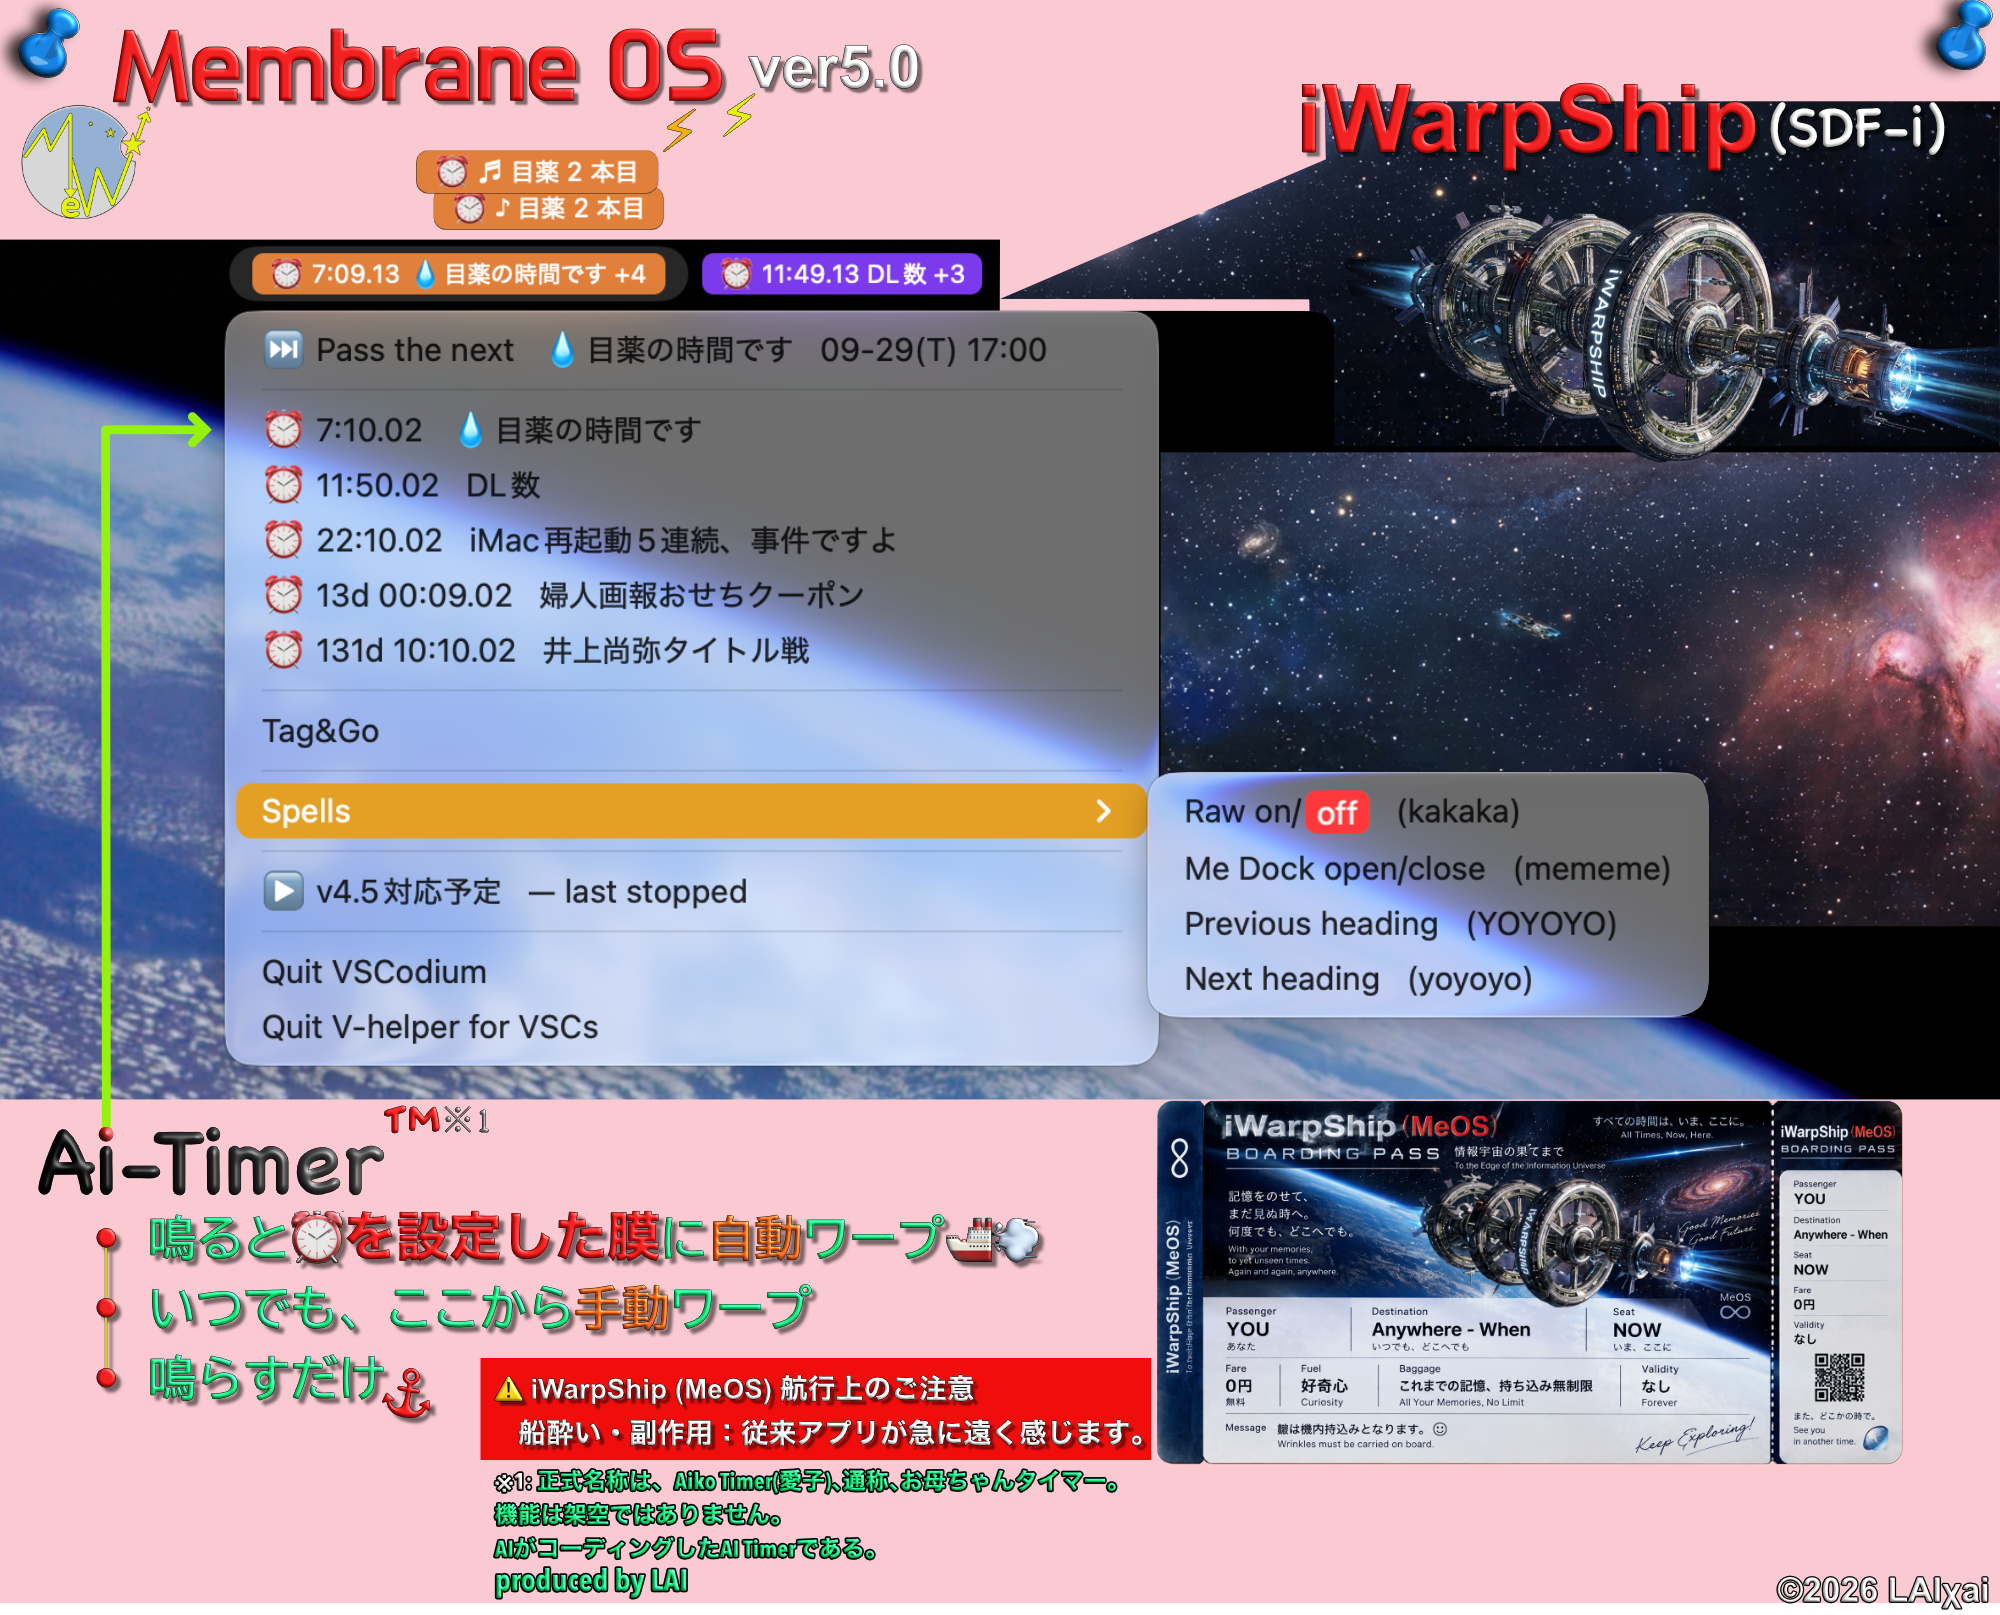
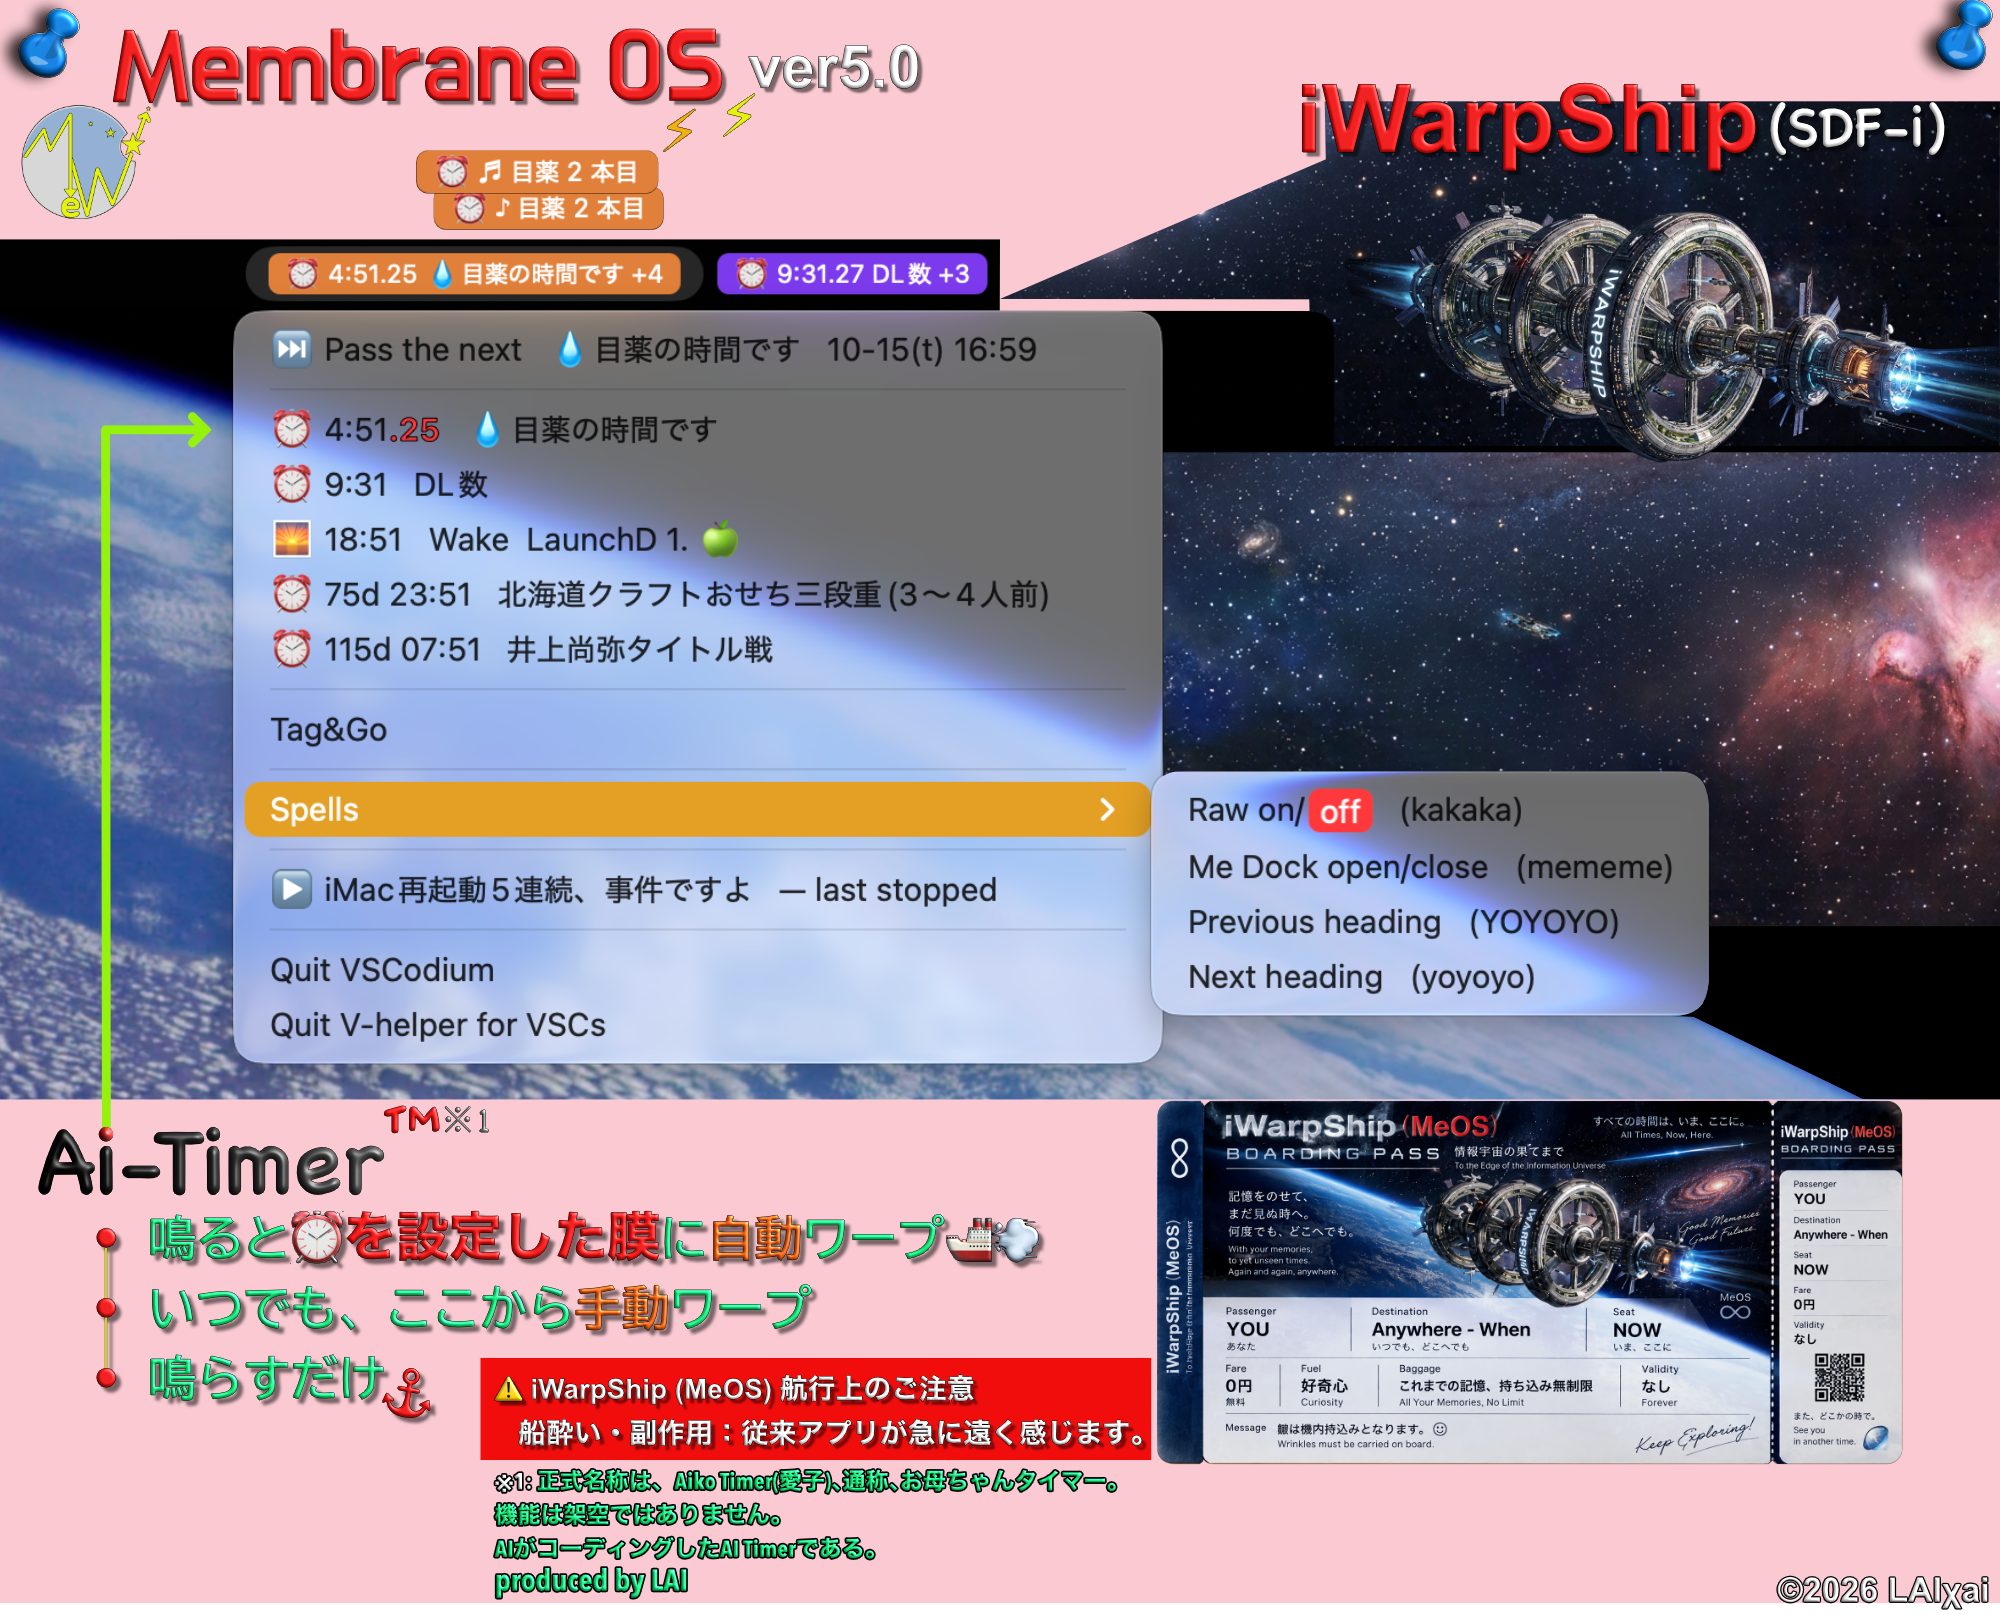
README: iWarpShipポスターを俊克の修正版(ver31・🌅 Wake LaunchD 🍏 の行入り)へ差し替え・キャプションを5時間〜115日と🌅 Wakeに

Changed region(s): [[0.0, 0.1548, 0.93, 0.6811], [0.403, 0.5263, 0.496, 0.5573], [0.496, 0.3406, 0.527, 0.3715]]

diff --git a/README.md b/README.md
@@ -174,8 +174,8 @@ so it stays through quitting VSCodium and restarting the Mac, and it starts the 
 (tested on an iMac with M3: it started at 07:00:06 on the first morning). Start-up only — nothing here shuts your Mac down.
 
 <p align="center">
-  <img src="https://raw.githubusercontent.com/LAIxai/MeOS/main/media/hero/v5.0-iwarpship-poster.png" alt="iWarpShip poster - Membrane OS ver5.0: the menu-bar clocks of VSCodium (orange) and VS Code (purple), the V-helper menu with Pass the next, every clock counting down, Tag&amp;Go and Spells, a spaceship over the Earth, and a boarding pass to Anywhere - When" width="92%"><br>
-  <sub><b>NEW in v5.0 — this is what the menu bar looks like.</b> Your clocks keep counting in the menu bar — orange for VSCodium, purple for VS Code — and one click opens every one of them, from seven minutes to 131 days away. When a bell rings, MeOS warps you to the membrane you set it on; pick any clock from here and you warp there yourself; or let it just ring, at anchor ⚓. <b>Boarding pass: Passenger YOU — Destination Anywhere-When — Seat NOW — Fare 0.</b></sub>
+  <img src="https://raw.githubusercontent.com/LAIxai/MeOS/main/media/hero/v5.0-iwarpship-poster.png" alt="iWarpShip poster - Membrane OS ver5.0: the menu-bar clocks of VSCodium (orange) and VS Code (purple), the V-helper menu with Pass the next, every clock counting down (🌅 Wake among them), Tag&amp;Go and Spells, a spaceship over the Earth, and a boarding pass to Anywhere - When" width="92%"><br>
+  <sub><b>NEW in v5.0 — this is what the menu bar looks like.</b> Your clocks keep counting in the menu bar — orange for VSCodium, purple for VS Code — and one click opens every one of them, from five hours to 115 days away — and 🌅 Wake, the next time your Mac starts up on its own, counts down among them. When a bell rings, MeOS warps you to the membrane you set it on; pick any clock from here and you warp there yourself; or let it just ring, at anchor ⚓. <b>Boarding pass: Passenger YOU — Destination Anywhere-When — Seat NOW — Fare 0.</b></sub>
 </p>
 
 <p align="center">
